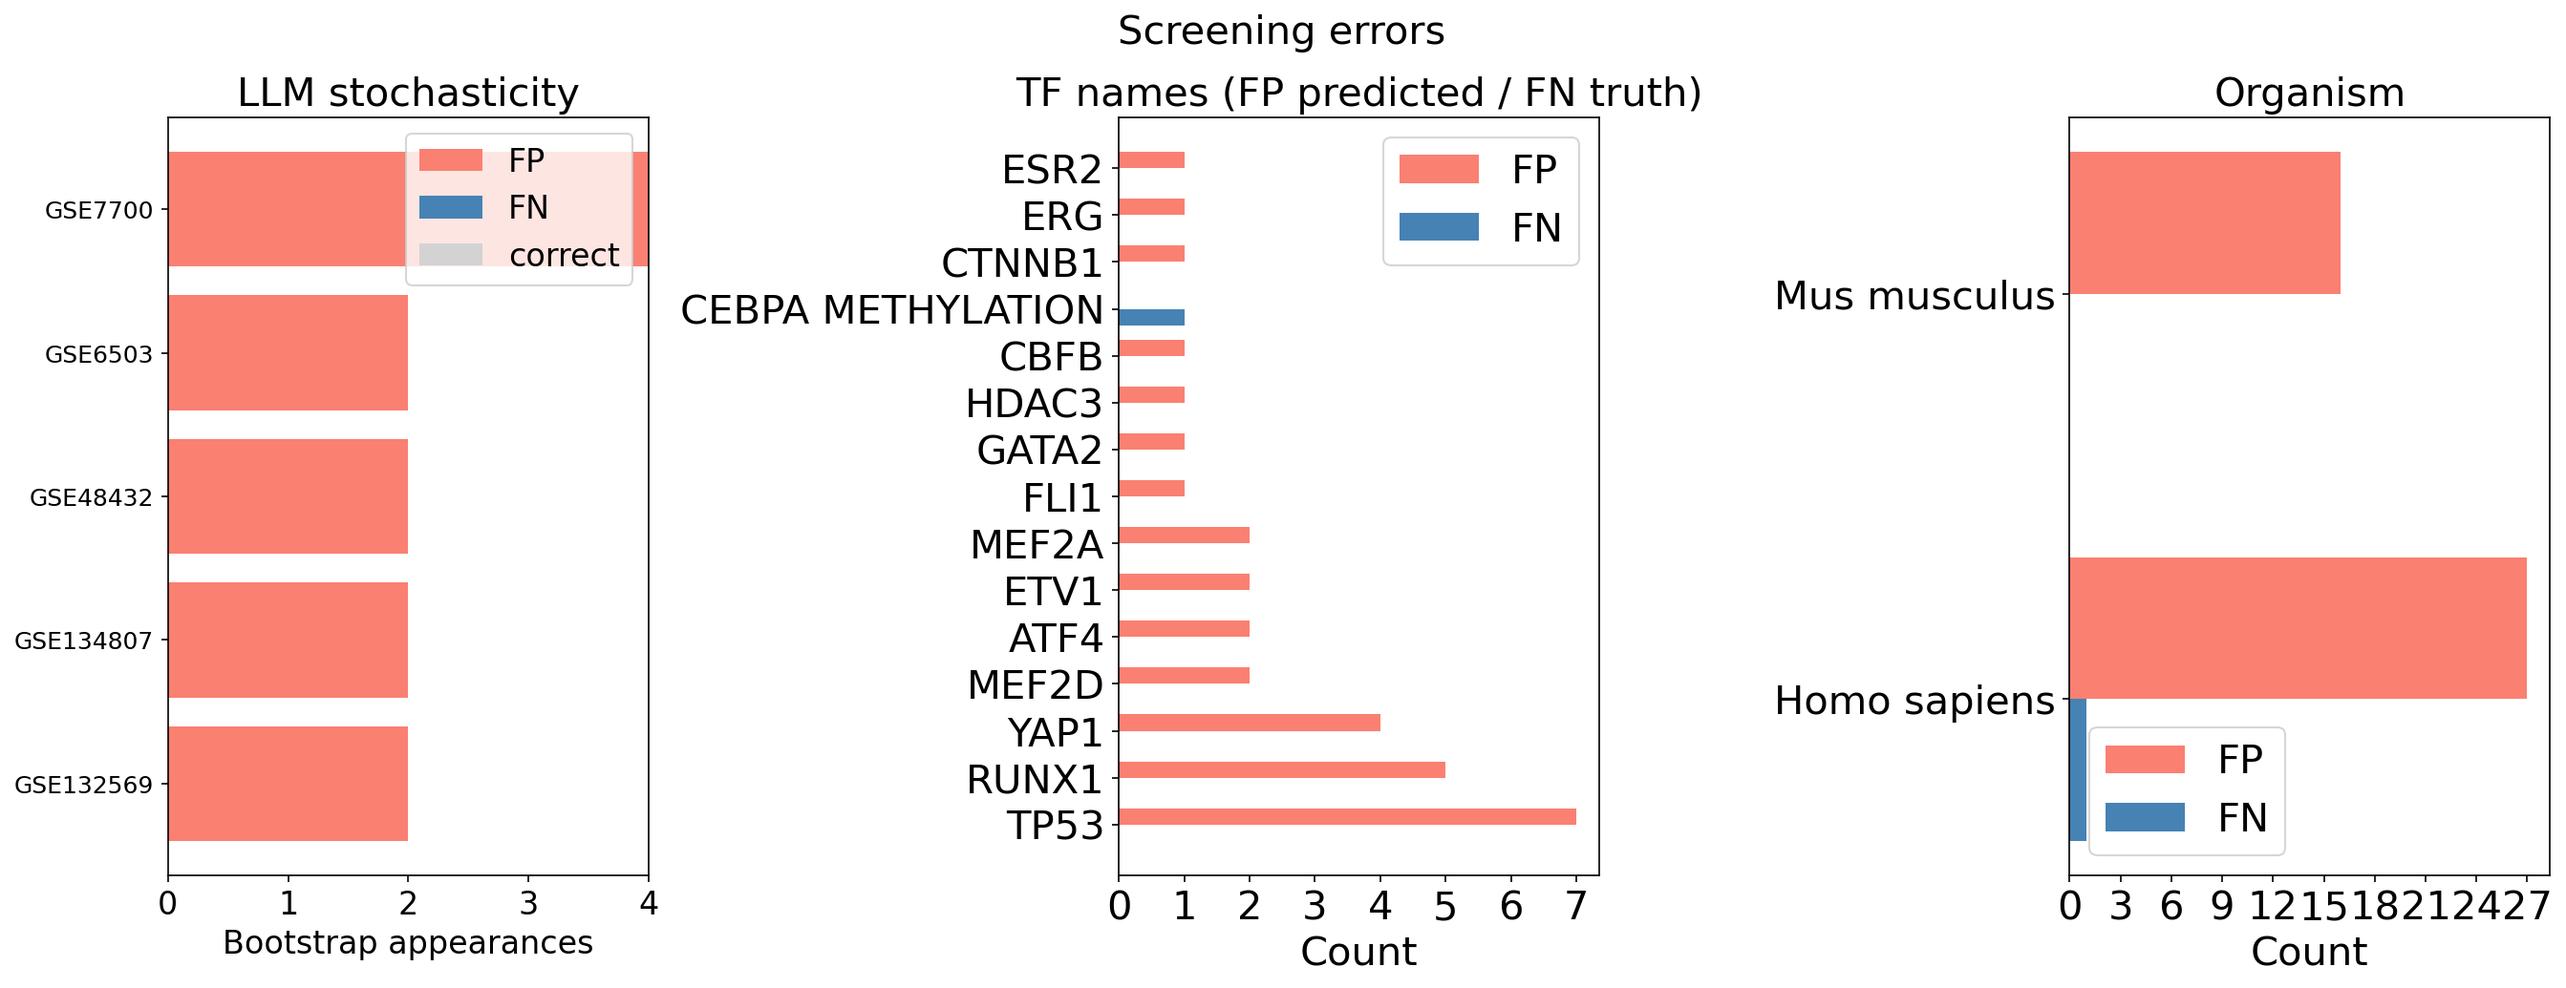
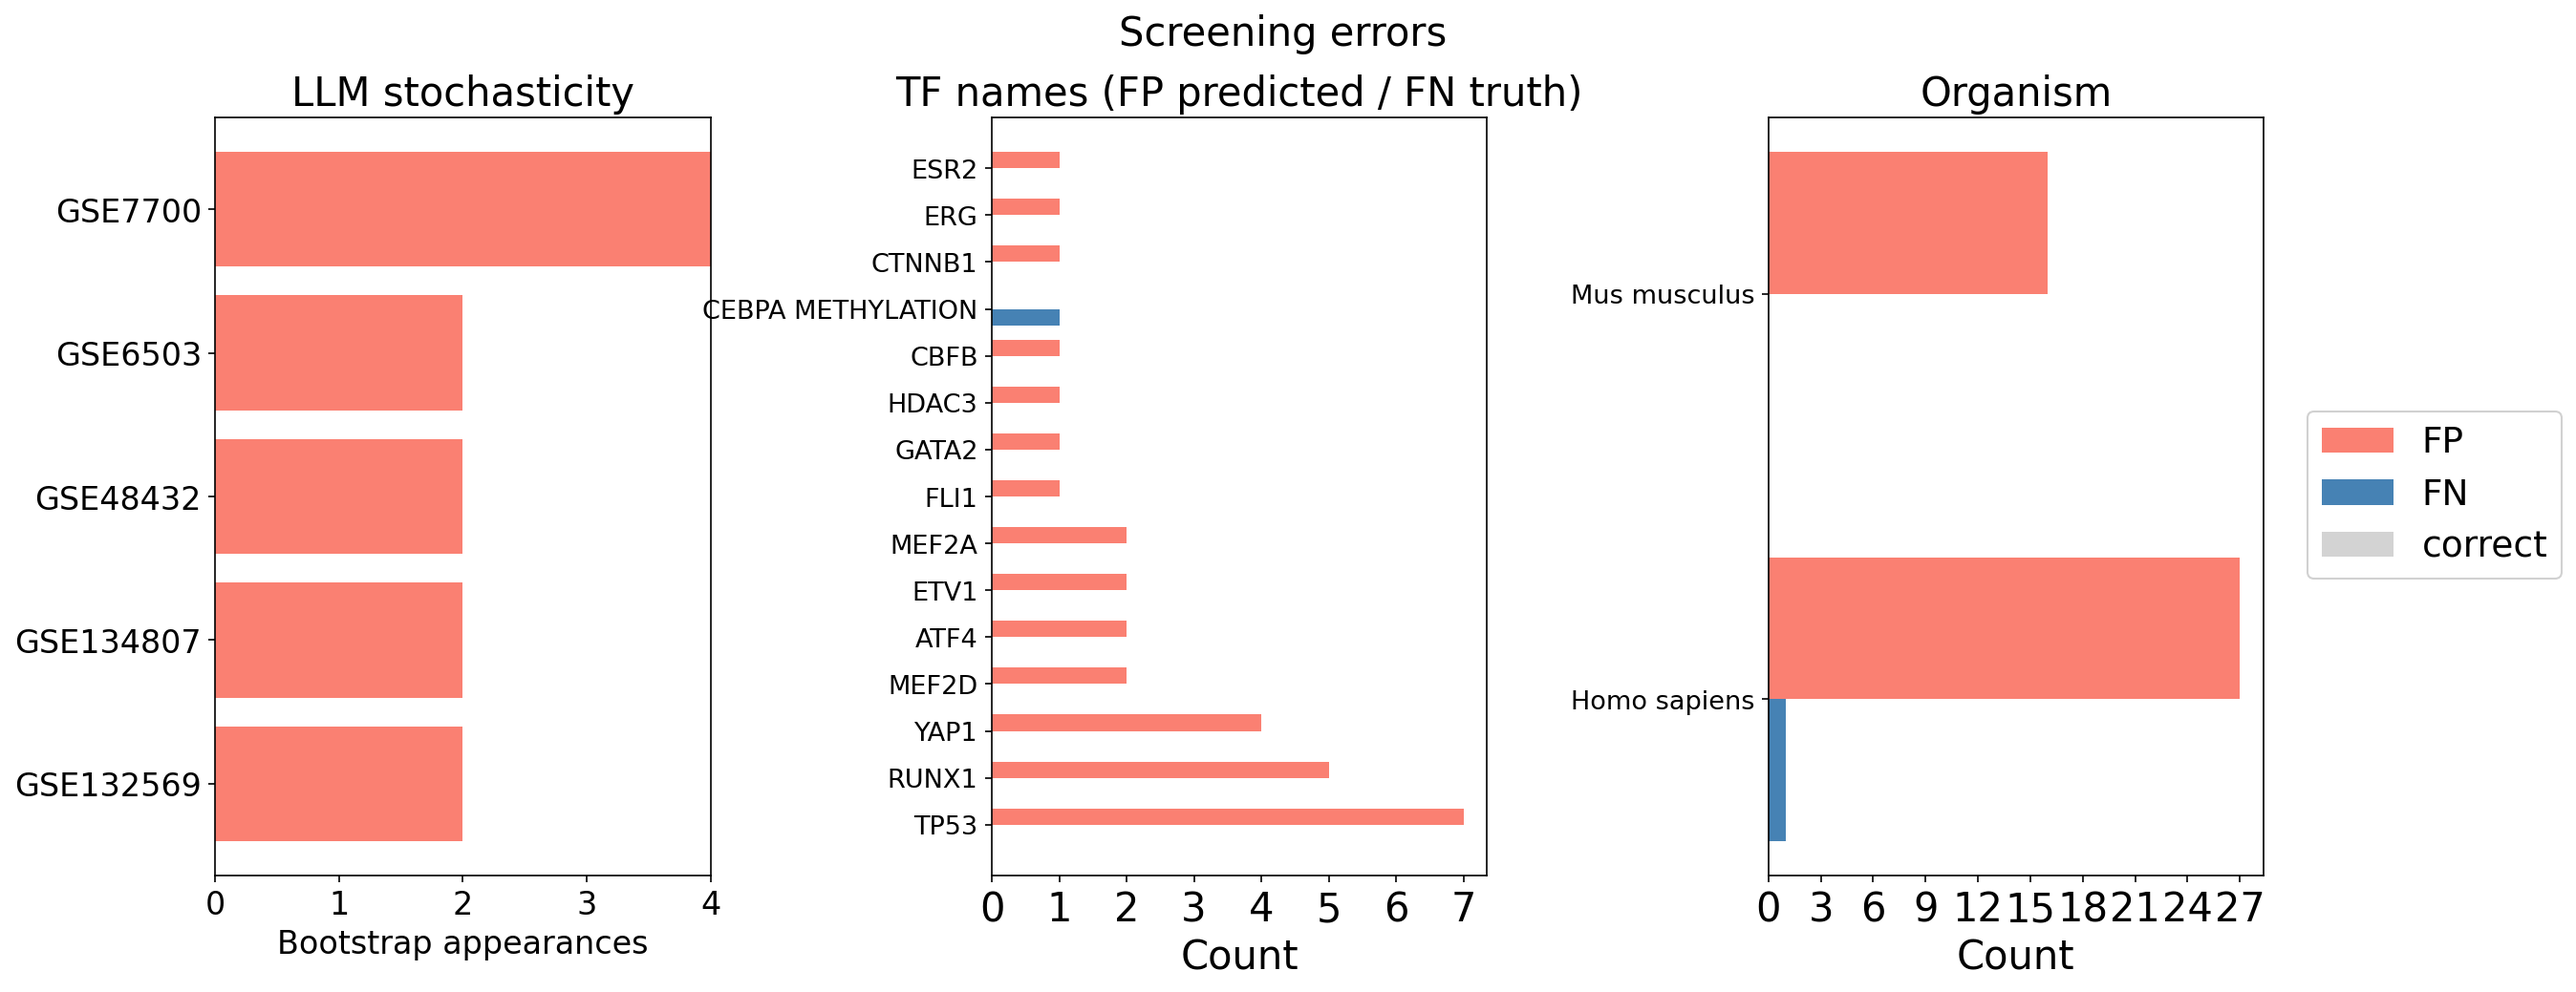
fix errors plot: single shared legend, adjust font sizes for readability

diff --git a/bin/plot_errors.py b/bin/plot_errors.py
@@ -23,12 +23,11 @@ def grouped_barh(ax, fp_counts, fn_counts, title, top_n=15):
     ax.barh([i + height / 2 for i in y], fp_vals, height, label="FP", color="salmon")
     ax.barh([i - height / 2 for i in y], fn_vals, height, label="FN", color="steelblue")
     ax.set_yticks(list(y))
-    ax.set_yticklabels(cats, fontsize=20)
+    ax.set_yticklabels(cats, fontsize=13)
     ax.set_title(title, fontsize=20)
     ax.set_xlabel("Count", fontsize=20)
     ax.tick_params(axis="x", labelsize=20)
     ax.xaxis.set_major_locator(mticker.MaxNLocator(integer=True))
-    ax.legend(fontsize=20)
 
 
 def stochasticity_panel(ax, merged):
@@ -70,12 +69,11 @@ def stochasticity_panel(ax, merged):
     ax.barh(list(y), counts["correct"], left=counts["fp"] + counts["fn"],
             color="lightgrey", label="correct")
     ax.set_yticks(list(y))
-    ax.set_yticklabels(counts.index, fontsize=12)
+    ax.set_yticklabels(counts.index, fontsize=16)
     ax.set_xlabel("Bootstrap appearances", fontsize=16)
     ax.set_title("LLM stochasticity", fontsize=20)
     ax.xaxis.set_major_locator(mticker.MaxNLocator(integer=True))
     ax.tick_params(axis="x", labelsize=16)
-    ax.legend(fontsize=16)
 
 
 def main():
@@ -116,8 +114,12 @@ def main():
     fn_org_counts = fn["organism_truth"].fillna("unknown").value_counts()
     grouped_barh(ax3, fp_org_counts, fn_org_counts, "Organism", args.top_n)
 
+    handles, labels = ax1.get_legend_handles_labels()
     fig.suptitle("Screening errors", fontsize=20)
     fig.tight_layout()
+    fig.subplots_adjust(right=0.88)
+    fig.legend(handles, labels, loc="center left", bbox_to_anchor=(0.89, 0.5),
+               fontsize=18, framealpha=0.9)
     fig.savefig(args.output, dpi=150, bbox_inches="tight")
     print(f"Saved plot → {args.output}")
 
